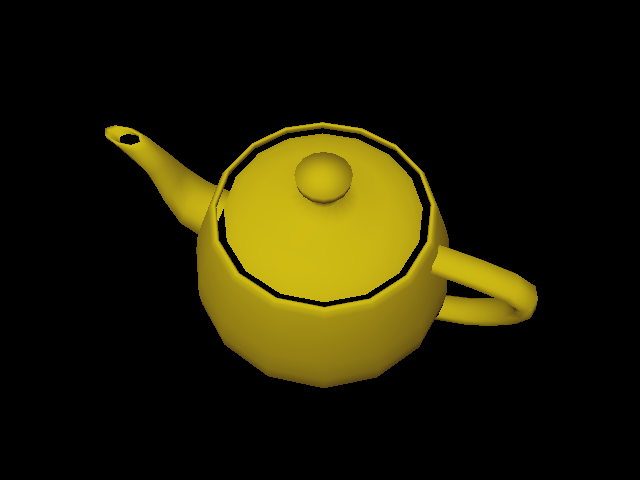
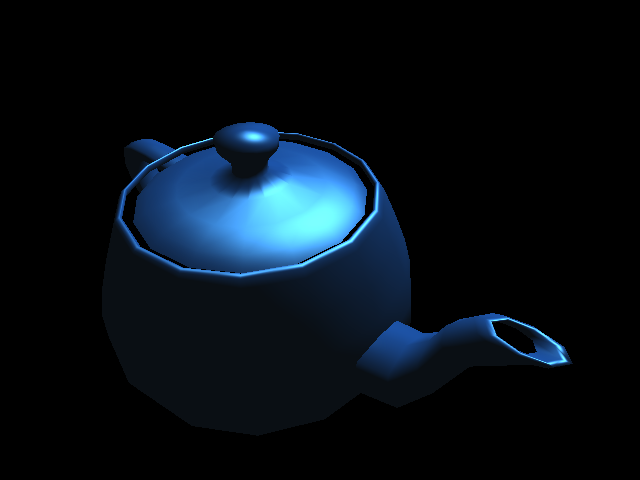
phong specular lighting

Changed region(s): [[0.1562, 0.25, 0.9062, 0.8125]]

diff --git a/msvc/test/main.cpp b/msvc/test/main.cpp
@@ -63,6 +63,8 @@ Vec keyVelocity()
 
 void rotateCube(sf::RenderWindow &window)
 {
+	bool mouse = true;
+
 	auto size = window.getSize();
 	int width = size.x;
 	int height = size.y;
@@ -104,7 +106,7 @@ void rotateCube(sf::RenderWindow &window)
 	sf::Clock clock;
 	clock.restart();
 
-	Vec light = Vec(0, 30, 100);
+	Vec light = Vec(0, 30, 50);
 
 	auto vertShade = [](VertexIn const &in, VertexGlobal const &global) -> VertexWithUnprojected
 	{
@@ -121,10 +123,19 @@ void rotateCube(sf::RenderWindow &window)
 		FragmentOut f;
 		Vec eyeLight = global.view * light;
 		Vec toLight = (eyeLight - v.vertexUnprojected).normalized();
-		float dp = dot(v.normal.normalized(), toLight);
-		//f.color = nearestNeighbor(tex, v.coord.x, v.coord.y);
-		f.color = (clamp(dp / 2, 0.0f, 1.0f) * ColorRGBA(255, 255, 0));
-		f.color = f.color + 0.4 * ColorRGBA(200, 150, 50);
+		Vec normal = v.normal.normalized();
+		float diffuse = clamp(dot(normal, toLight), 0.0f, 1.0f);
+
+		Vec reflection = toLight.projectedTo(normal) - toLight.normalTo(normal);
+		float specular = pow(clamp(-reflection.z, 0.0f, 1.0f), 8);
+
+		float ambient = 0.1;
+
+		f.color = 
+			diffuse * ColorRGBA(20, 70, 150) +
+			specular * ColorRGBA(100, 200, 255) +
+			ambient * ColorRGBA(100, 150, 200);
+
 		return f;
 	};
 
@@ -146,6 +157,10 @@ void rotateCube(sf::RenderWindow &window)
 				{
 					window.close();
 				}
+				if (event.key.code == sf::Keyboard::M)
+				{
+					mouse = !mouse;
+				}
 			}
         }
 
@@ -162,19 +177,20 @@ void rotateCube(sf::RenderWindow &window)
 		Vec v = camCsys * keyVelocity();
 		cam.position = cam.position + speed * v;
 
-		///*
-		auto mouse = sf::Mouse::getPosition(window);
-		auto size = window.getSize();
-		auto middle = sf::Vector2i(size.x / 2, size.y / 2);
-		auto dmouse = sf::Vector2i(mouse.x - middle.x, mouse.y - middle.y);
-		dmouse.y *= -1;
-		sf::Mouse::setPosition(middle, window);
+		if (mouse)
+		{
+			auto mouse = sf::Mouse::getPosition(window);
+			auto size = window.getSize();
+			auto middle = sf::Vector2i(size.x / 2, size.y / 2);
+			auto dmouse = sf::Vector2i(mouse.x - middle.x, mouse.y - middle.y);
+			dmouse.y *= -1;
+			sf::Mouse::setPosition(middle, window);
 
-		Vec mouseVelocity = Vec(dmouse.x, dmouse.y, 0) / 300.0;
-		Vec worldTurn = camCsys * mouseVelocity;
-		cam.direction = (cam.direction + worldTurn).normalized();
-		cam.up = Vec(0, 0, 1).normalTo(cam.direction).normalized(); // not most efficient
-		//*/
+			Vec mouseVelocity = Vec(dmouse.x, dmouse.y, 0) / 300.0;
+			Vec worldTurn = camCsys * mouseVelocity;
+			cam.direction = (cam.direction + worldTurn).normalized();
+			cam.up = Vec(0, 0, 1).normalTo(cam.direction).normalized(); // not most efficient
+		}
 
 		//cam.position = rot * cam.position;
 		//cam.direction = -cam.position.normalized();
